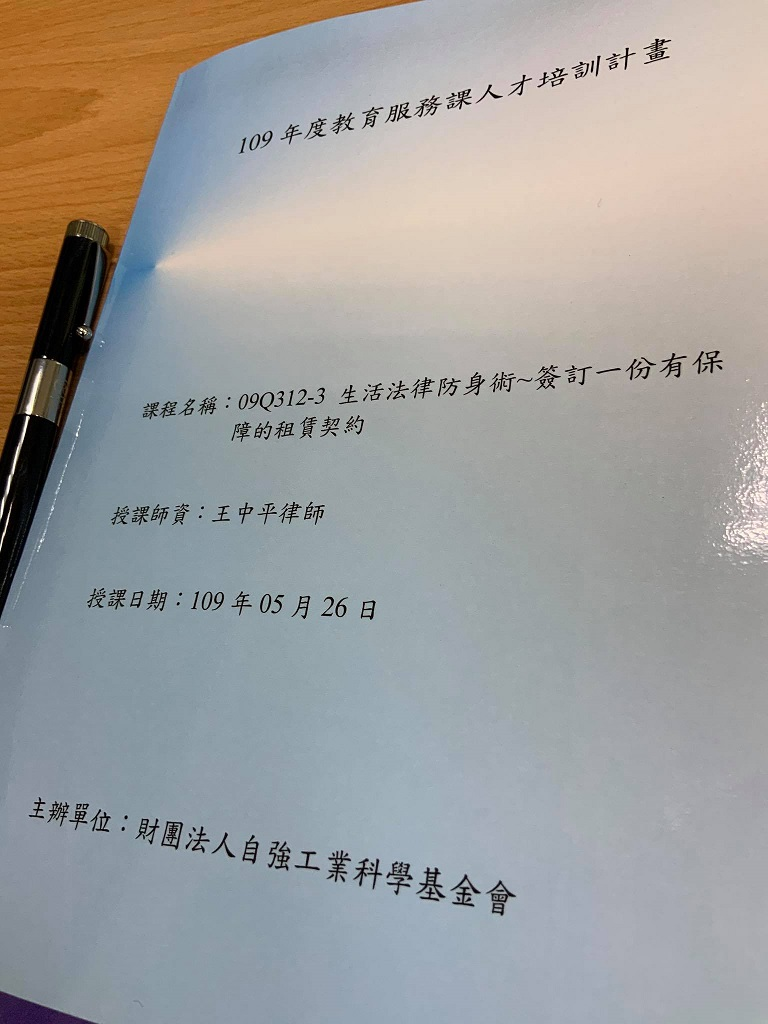
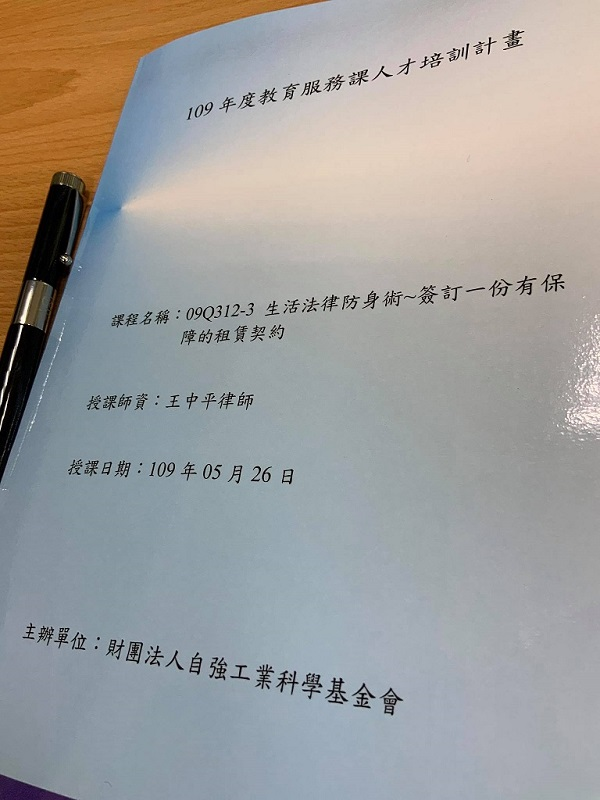
modify picture size

diff --git a/blog/個人網誌/index.html b/blog/個人網誌/index.html
@@ -153,24 +153,24 @@
 <h5 id="typora">Typora</h5>
 </li>
 </ul>
-<h6 id="在github上申請個人帳號">在Github上申請個人帳號</h6>
+<h5 id="在github上申請個人帳號">在Github上申請個人帳號</h5>
 <p>例如我的帳號為chaoban。
 Github網址為 <a href="https://github.com/chaoban">https://github.com/chaoban</a></p>
-<h6 id="在github上新增存放網誌的repo">在Github上新增存放網誌的repo</h6>
+<h5 id="在github上新增存放網誌的repo">在Github上新增存放網誌的repo</h5>
 <p>例如我建立一個repo為chaoban.github.io
 個人網誌位址即為 <a href="https://chaoban.github.io">https://chaoban.github.io</a></p>
-<h6 id="在個人電腦上安裝hugo並下載網誌範本">在個人電腦上安裝Hugo，並下載網誌範本</h6>
+<h5 id="在個人電腦上安裝hugo並下載網誌範本">在個人電腦上安裝Hugo，並下載網誌範本</h5>
 <p>例如我下載及使用 liva 這個範本</p>
-<h6 id="修改-liva">修改 liva</h6>
+<h5 id="修改-liva網誌範本">修改 liva網誌範本</h5>
 <p>可用VS Code編輯</p>
 <p>並用Typora來寫所見即所得的Markdown語法</p>
-<h6 id="產生網頁程式碼">產生網頁程式碼</h6>
+<h5 id="產生網頁程式碼">產生網頁程式碼</h5>
 <p>啟動Hugo服務，下指令幫你產生網頁程式碼</p>
 <p><code>hugo</code></p>
-<h6 id="發佈到github">發佈到Github</h6>
+<h5 id="發佈到github">發佈到Github</h5>
 <p>配合Github Desktop使用</p>
 <p>將生成的網頁程式碼(在資料夾 public 內)的所有檔案，放到chaoban.github.io內。並push到Github上</p>
-<h6 id="githun將你的網頁程式碼生成網頁">Githun將你的網頁程式碼生成網頁</h6>
+<h5 id="githun將你的網頁程式碼生成網頁">Githun將你的網頁程式碼生成網頁</h5>
 <p><a href="https://choaban.github.io">https://choaban.github.io</a></p>
 
         </div>
